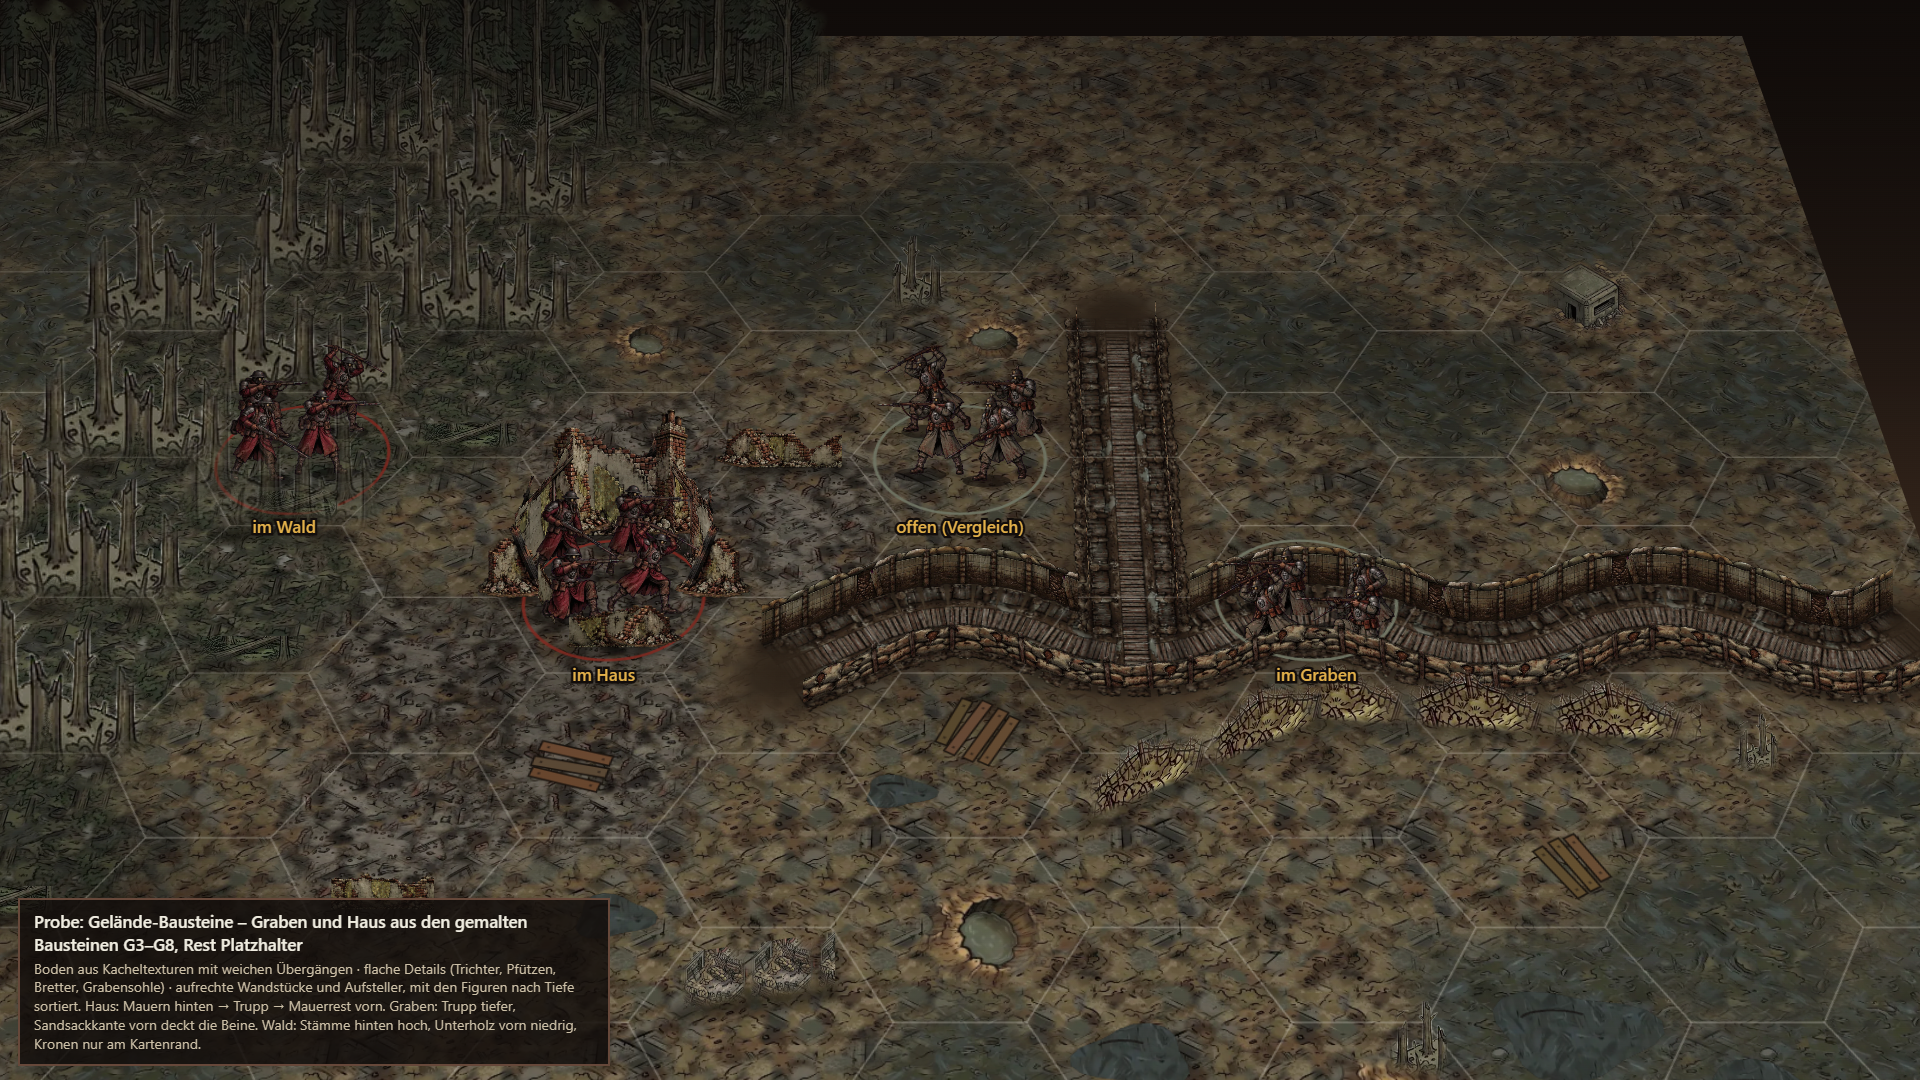
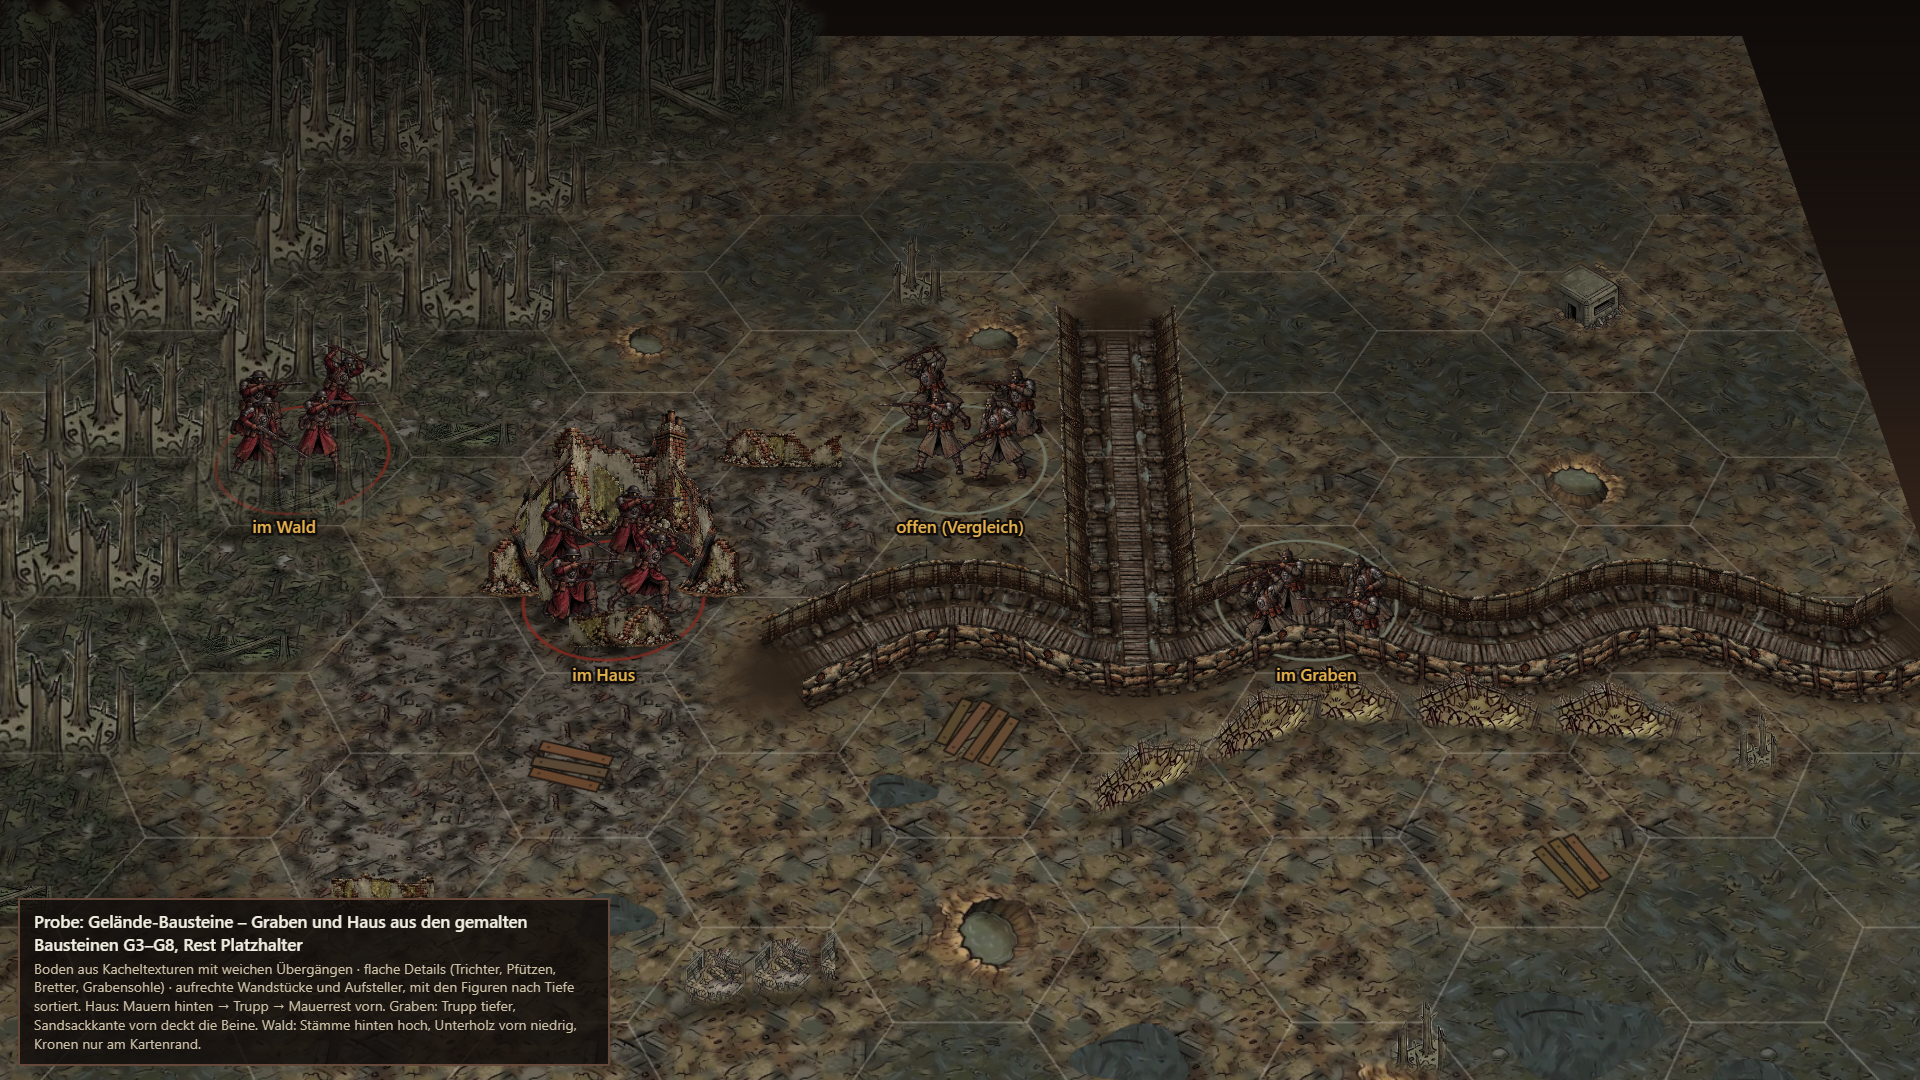
Gelände-Probe: Seitenwände an Verbindungsgräben (nach außen gekippt), hintere Grabenwand auf 2/3

Changed region(s): [[0.6562, 0.4889, 1.0, 0.5806], [0.375, 0.3056, 0.5625, 0.5806], [0.5938, 0.3056, 0.6562, 0.55]]

diff --git a/entwurf/probe/gelaende.html b/entwurf/probe/gelaende.html
@@ -167,10 +167,13 @@ const terr = (c, r) => T[c + ',' + r] || '.';
   function strip(im, a, b, hW, u0, du, o) {
     const pa = proj(a[0], a[1]), pb = proj(b[0], b[1]), sc = F / ((pa[2] + pb[2]) / 2), hS = hW * sc, iw = im.width, ih = im.height;
     let s0 = ((u0 % 1) + 1) % 1, s1 = s0 + du; const parts = s1 <= 1 ? [[s0, s1, 0, 1]] : [[s0, 1, 0, (1 - s0) / du], [0, s1 - 1, (1 - s0) / du, 1]];
+    // Höhenvektor V (Schirm): aufrecht wie ein Aufsteller; mit o.lean = { nx, ny, L, U } nach außen gekippt (Grabenwände, die in die Tiefe laufen)
+    let V = [0, -hS];
+    if (o.lean) { const m = [(a[0] + b[0]) / 2, (a[1] + b[1]) / 2], pm = proj(m[0], m[1]), pt = proj(m[0] + o.lean.nx * o.lean.L * hW, m[1] + o.lean.ny * o.lean.L * hW); V = [pt[0] - pm[0], pt[1] - pm[1] - o.lean.U * hS]; }
     for (const [x0, x1, t0, t1] of parts) {
       const qa = [pa[0] + (pb[0] - pa[0]) * t0, pa[1] + (pb[1] - pa[1]) * t0], qb = [pa[0] + (pb[0] - pa[0]) * t1, pa[1] + (pb[1] - pa[1]) * t1], sw = (x1 - x0) * iw;
       if (sw < 0.5) continue;
-      g.save(); g.setTransform((qb[0] - qa[0]) / sw, (qb[1] - qa[1]) / sw, 0, hS / ih, qa[0], qa[1] - hS + (o.sink || 0) * sc);
+      g.save(); g.setTransform((qb[0] - qa[0]) / sw, (qb[1] - qa[1]) / sw, -V[0] / ih, -V[1] / ih, qa[0] + V[0], qa[1] + V[1] + (o.sink || 0) * sc);
       if (o.filter) g.filter = o.filter; if (hW > 0.6 * SH && hides((a[0] + b[0]) / 2, (a[1] + b[1]) / 2)) g.globalAlpha = 0.45;
       g.drawImage(im, x0 * iw, 0, sw + 0.6, ih, 0, 0, sw + 0.6, ih); g.restore();
     }
@@ -218,8 +221,10 @@ const terr = (c, r) => T[c + ',' + r] || '.';
         // Innenseite zum Betrachter (Wand hinter dem Graben) → Kante hinten (Verschalung, G5); sonst Außenseite → Kante vorn (Sandsäcke, G4).
         // Fest nach Blickrichtung Norden, nicht nach Kamera-x: beim Schwenken wechseln die Bilder nicht.
         const mx = (off[i][0] + off[i + 1][0]) / 2, my = (off[i][1] + off[i + 1][1]) / 2, cx = (pts[i][0] + pts[i + 1][0]) / 2, cy = (pts[i][1] + pts[i + 1][1]) / 2;
-        const inY = (cy - my) / (Math.hypot(cx - mx, cy - my) || 1), back = inY > 0.3, key = back ? 'h' : 'v';
-        uu[key] = wall(back ? IM.g_graben_kante_hinten : IM.g_graben_kante_vorn, off[i], off[i + 1], (back ? 0.42 : 0.32) * SH, { u0: uu[key], shade: 0.4, shadeW: 0.1,
+        const dl = Math.hypot(cx - mx, cy - my) || 1, inY = (cy - my) / dl, back = inY > -0.5, key = back ? 'h' : 'v';
+        // Abschnitte, die in die Tiefe laufen (Innenseite zeigt seitlich): Verschalung nach außen gekippt, damit die Seitenwand sichtbar ist (sonst nur ein Strich)
+        const side = Math.max(0, 1 - Math.abs(inY) / 0.85), lean = side > 0.05 ? { nx: (mx - cx) / dl, ny: (my - cy) / dl, L: 0.9 * side, U: 1 - 0.35 * side } : null;
+        uu[key] = wall(back ? IM.g_graben_kante_hinten : IM.g_graben_kante_vorn, off[i], off[i + 1], (back ? 0.28 : 0.32) * SH, { u0: uu[key], shade: 0.4, shadeW: 0.1, lean,
           skip: (x, y) => TRIM[ti].some(q => q.length > 1 && distTo([x, y], q) < R * 0.42) });
       }
     }

diff --git a/STYLE.md b/STYLE.md
@@ -170,7 +170,8 @@ Für alle Bilder: reiner Magenta-Hintergrund (#FF00FF), PNG, Tuschkontur und Far
 - **Graben (eingelassen):**
   - Grabenzug als Linie über Feldmitten und Kantenmitten (Anschluss an der Kantenmitte, Richtungswechsel 60°/120°/180° ergeben sich von selbst).
   - Flach: Längsstreifen „Grabensohle“ (von oben), Bildhöhe = 1,0 R Grabenbreite, entlang der Linie gekachelt. Zweimal gelegt: erst ganz, dann nur das mittlere Drittel (Sohle) – so verbinden sich an Abzweigen die Böden. Offene Enden bekommen einen Erdwall.
-  - Aufrecht: Grabenkante vorn (Sandsäcke Außenseite, 0,32 SH) und hinten (Verschalung Innenseite mit Sandsack obenauf, 0,42 SH), je ±0,38 R neben der Linie. Welche Kante: zeigt die Innenseite eines Abschnitts zum Betrachter (nach Süden), steht dort „hinten“, sonst „vorn“ – fest nach Blickrichtung, damit beim Schwenken nichts wechselt.
+  - Aufrecht: Grabenkante vorn (Sandsäcke Außenseite, 0,32 SH) und hinten (Verschalung Innenseite mit Sandsack obenauf, **0,28 SH**, seit 2026-11-16 auf 2/3 gesenkt), je ±0,38 R neben der Linie. Welche Kante: zeigt die Innenseite eines Abschnitts deutlich vom Betrachter weg (nach Norden), steht dort „vorn“, sonst „hinten“ – fest nach Blickrichtung, damit beim Schwenken nichts wechselt.
+  - Abschnitte, die in die Tiefe laufen (Verbindungsgräben): Seitenwände als Verschalung, **nach außen gekippt**. Die Oberkante liegt bis 0,9 × Wandhöhe neben der Fußlinie (projiziert) und auf 0,65 × Höhe, damit die Wand perspektivisch als Fläche sichtbar ist und der Graben nicht wie ein Steg wirkt. Übergang je nach Richtung stufenlos.
   - An Kreuzungen und Abzweigen lässt der Code die Kante dort weg, wo ein anderer Grabenzug näher als 0,42 R ist.
   - Einheit im Graben: **0,32 SH tiefer**, Figuren auf der Grabenlinie aufgereiht (Tiefe × 0,38 um die Linie), unterhalb der vorderen Kante abgeschnitten.
 - **Wald im Spielfeld (licht):**
